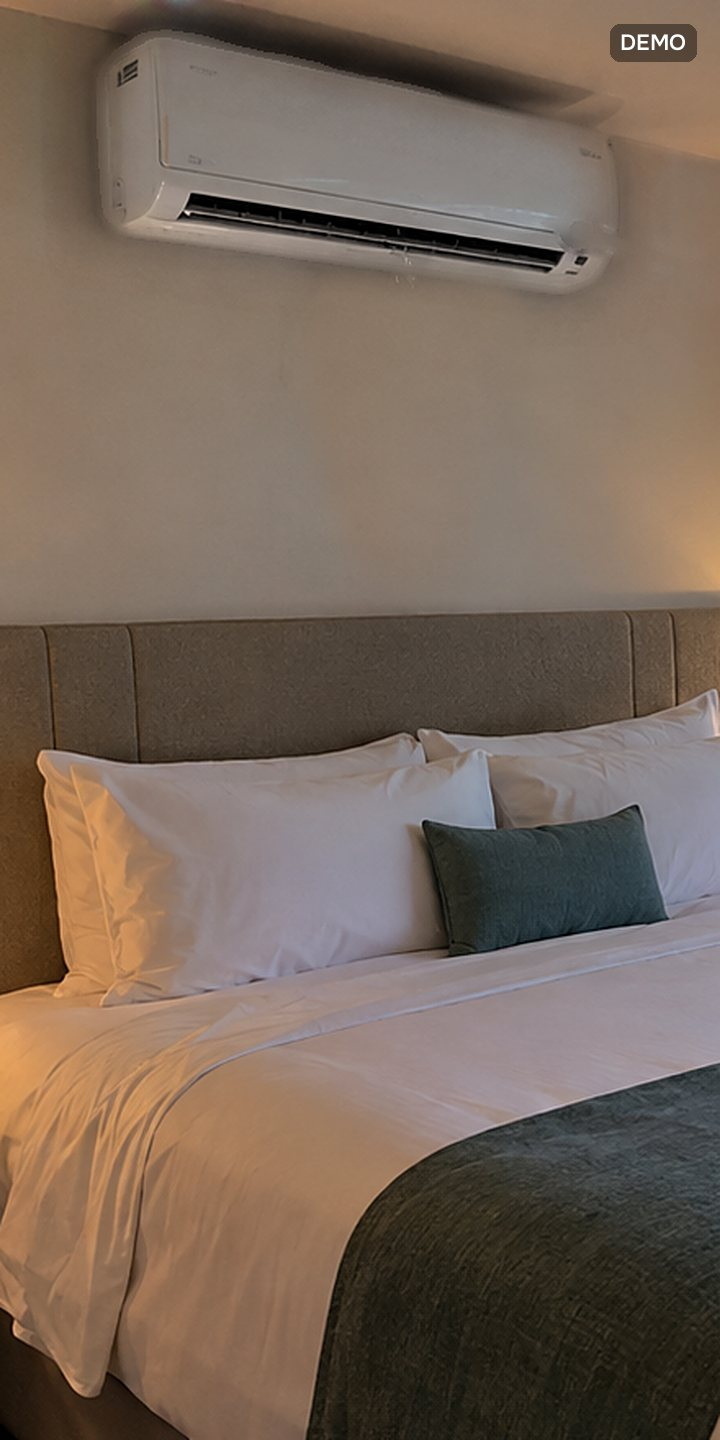
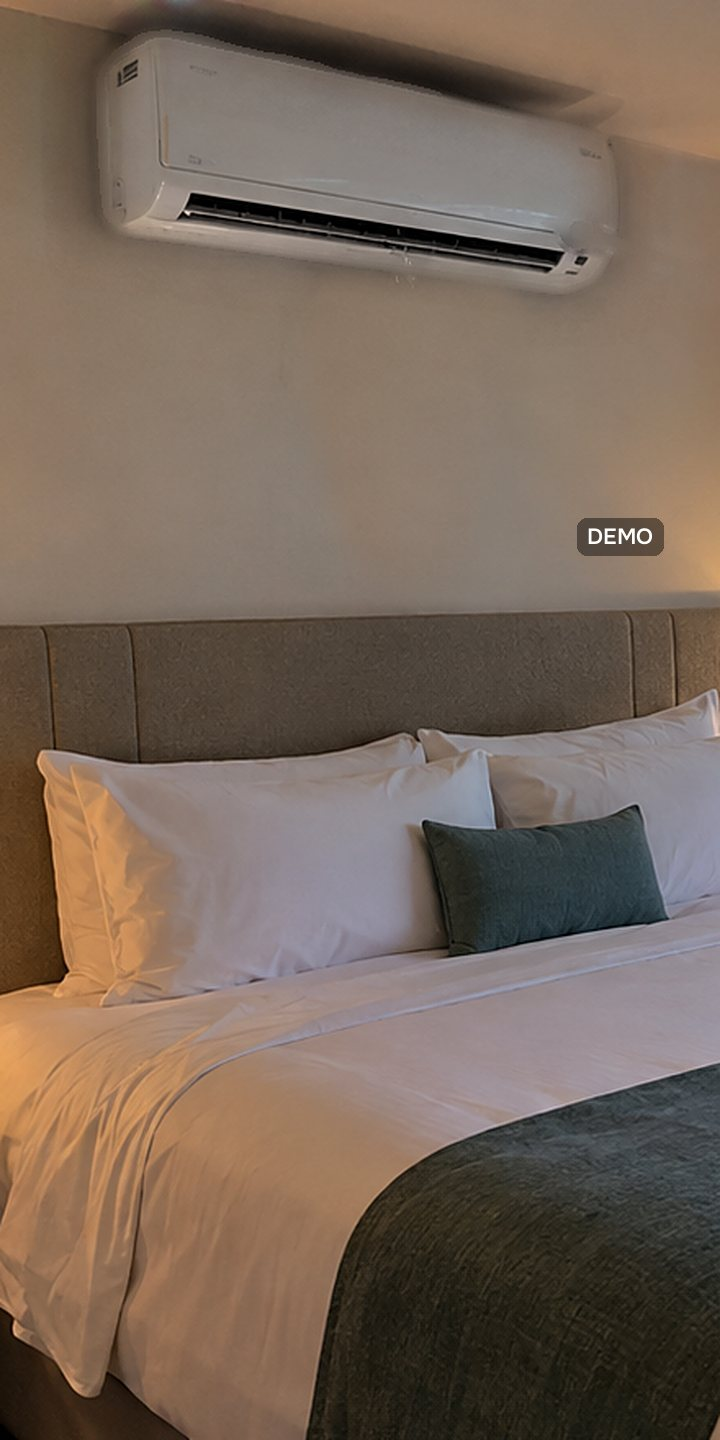
Шаг 35c (блок 3): пометка DEMO в вертикальном кадре; кадры 18, 21 (рабочая база)

Changed region(s): [[0.825, 0.0, 0.9778, 0.0625], [0.7944, 0.3438, 0.9167, 0.4062]]

diff --git a/tools/demo_photos/from_art.py b/tools/demo_photos/from_art.py
@@ -150,8 +150,11 @@ def demo_badge(img, size=SIZE):
     x0, y0, x1, y1 = d.textbbox((0, 0), text, font=font)
     w, h = x1 - x0, y1 - y0
     pad = 10
-    X = size[0] - w - 2 * pad - 24
-    Y = 24
+    margin = max(24, int(size[0] * 0.08))  # на телефоне края кадра обрезаются
+    X = size[0] - w - 2 * pad - margin
+    # вертикальный кадр (заглушка камеры): сверху кнопки экрана камеры, снизу —
+    # карточка; пометка — справа над карточкой
+    Y = int(size[1] * 0.36) if size[1] > size[0] else 24
     d.rounded_rectangle((X, Y, X + w + 2 * pad, Y + h + 2 * pad), radius=10, fill=(0, 0, 0, 110))
     d.text((X + pad - x0, Y + pad - y0), text, font=font, fill=(255, 255, 255, 230))
     return img
